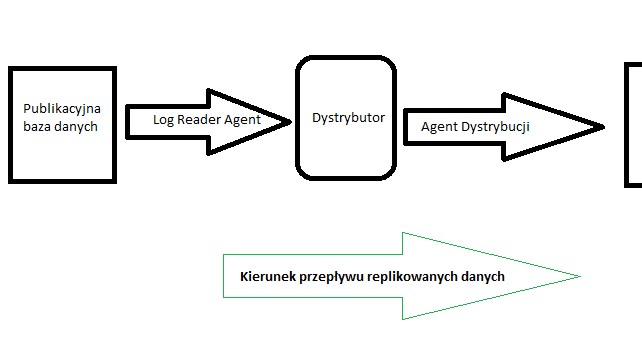
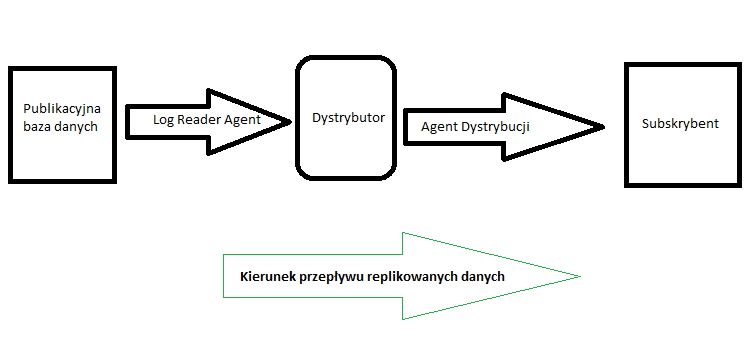
doc update

diff --git a/Dokumentation/main.tex b/Dokumentation/main.tex
@@ -18,7 +18,8 @@
 	
 	\center 
 	
-	\textsc{\LARGE POLITECHNIKA WROCŁAWSKA WYDZIAŁ ELEKTRONIKI}
+	\textsc{\LARGE POLITECHNIKA WROCŁAWSKA} \\[0.5cm]
+	\textsc{\LARGE WYDZIAŁ ELEKTRONIKI} 
 	
 	\HRule\\[3.0cm]
 	
@@ -42,8 +43,9 @@
 	\begin{minipage}{0.4\textwidth}
 		\begin{flushright}
 			\large
-			\textit{PROWADZĄCY ZAJĘCIA}\\
+			\textit{PROWADZĄCY}\\
 			Dr inż. Robert Wójcik
+			W4/K9
 			\\[2.0cm] 
 			OCENA PRACY:
 		\end{flushright}
@@ -154,11 +156,22 @@ Agent Dystrybucji (Distribution Agent) - agent (distrib.exe) odpowiedzialny za a
 	\subsection{Model konceptualny}
 
 	\subsection{Model fizyczny}
+	
+	\subsection{Model replikacji}	
+	System ma służyć klientom sieci restauracji do przeglądania menu w poszczególnych restauracjach. Jeden węzeł główny ma możliwość modyfikacji, do niego dostęp jest poprzez aplikację administratorską która umożliwia modyfikacje wartości w bazie. Na kolejnych dwóch węzłach użytkownicy mają jedynie prawo odczytu, na tych połączone są aplikacje klienckie. Na węźle nadrzędnym uruchomiony jest publisher który nadzoruje rozgłaszanie logów transakcyjnych. Również na głównej bazie znajdują się subskrybenci którzy odpowiadają za przyjmowanie danych na bazach docelowych. Zostały one umieszczone po stronie bazy głównej, MS Serwer umożliwia umieszczenie ich również po stronie subskrybentów.
+	
+	
+	
+	\begin{figure}[hbt!]
+		\includegraphics[width=8cm]{Files/Pictures/repSub}
+		\centering
+		\caption{Konfiguracji replikacji}
+	\end{figure}
+	
 
-\section{Implementacja bazy danych w środowisku ...}
+
+\section{Implementacja bazy danych w środowisku}
 	\subsection{Realizacja bazy danych}
-	\newpage
-	\subsection{Definiowanie łączników}
 	\newpage
 	\subsection{Wykorzystanie mechanizmów replikacji transakcyjnej}
 System został stworzony na jednej maszynie, na której umieszczone zostały 3 instancji Microsoft SQL Server 2017. Taka możliwość nie wymaga podziału na kontenery, jest to wspierana przez Microsoft możliwość. Konieczny jest jedynie wybór odpowiedniej ścieżki instalacji.
@@ -190,9 +203,10 @@ System został stworzony na jednej maszynie, na której umieszczone zostały 3 i
 	
 	
 	\newpage	
-	\subsection{Wykorzystanie mechanizmów replikacji master-slave}
 
 \section{Projekt i implementacja aplikacji}
+Projekt składa się z kilku segmentów, poszczególne warstwy ich opcje zostały przedstawione poniżej.
+
 			\begin{figure}[hbt!]
 				\includegraphics[width=8cm]{Files/Pictures/SystemStruct}
 				\centering
@@ -267,8 +281,48 @@ System został stworzony na jednej maszynie, na której umieszczone zostały 3 i
 			\end{figure}
 		\subsubsection{Realizacja wybranych funkcjonalności}	
 		Aplikacja kliencka została zrealizowana w technologi internetowej z wykorzystaniem framework'u Angular 8.
+		
 \section{Wdrożenie i testowanie aplikacji}
+Prezentacja działania srodowiska wymagała specjalnego przygotowania i konfiguracji sieci lokalnej.
+\subsection{Konfiguracja środowiska produkcyjnego}
+	Wszystkie komputery znalazły się w sieci lokalnej. Na PC2 zostały skonfigurowane bazy danych w podstacji trzech instancji MS serwer, wraz z replikacjią między nimi. PC1 posiadał instancję aplikacji administratorskiej wraz z odpowiadającą jej aplikacją serwerową. PC3 posiadał natomiast aplikację kliencką.
 
+
+	\begin{figure}[hbt!]
+		\includegraphics[width=8cm]{Files/Pictures/setup}
+		\centering
+		\caption{Środowisko testowe}
+	\end{figure}
+
+\subsection{Testowanie wybranych operacji}	
+Dzięki konfiguracji możliwe było pokazanie w łatwy sposób modyfikację na PC1, odczyt zmodyfikowanych danych na PC3, z możliwością podglądu na żywo na PC2 danych transakcyjnych.	
+
+\subsubsection{Test operacji dodawania i odczytu}	
+
+Pierwszym etapem testów były pojedyncze operacje zapisu. Do bazy przez aplikację administracyjną były dodawane pojedyncze wpisy do poszczególnych tabel. Na subskrybentach było weryfikowane opóźnienie. Średni czas propagacji informacji pomiędzy węzłami wyniósł 1870ms.
+Drugim etapem były testy dotyczące większej liczby wpisów, w naszym przypadku było to 10000. W tym przypadku opóźnienie wyniosło ok. 2000ms jednak widoczne były paczki transakcji które docierały na serwery slave po około 30 wpisów co 2-3ms. Jest to zjawisko związane prawdopodobnie z kwantowaniem informacji w transakcjach przez którąś ze stron.
+
+\subsubsection{Testowanie działania w warunkach awarii}
+Kolejnym etapem testów było pozbawianie systemu jednego z węzłów. Wyłączany był jeden z węzłów subskrybentów. Wykonywane były operacje dodawania na serwerze oraz obserwowane na aplikacjach klienckich. System zachował się zgodnie z założeniami, aplikacje serwerowe wykrywały uszkodzony węzeł i przekierowywały ruch do działającego. Po uruchomieniu wykluczonego serwera połączenie było wznawiane po ok. 7 sekundach od uruchomienia SQL server agenta.
+
+\subsubsection{Wnioski z testów}
+Testy potwierdziły niezawodność bazy i realizację założonych modeli zachowań. Działanie bazy jest adekwatne do architektury dla jakiej została stworzona. Potwierdzony został również niezawodność bazy w przypadku awarii jednego z węzłów. 
+
+\newpage
 \section{Podsumowanie}
+
+\section{Literatura}
+
+\begin{thebibliography}{99}
+\bibitem{pa} A. Jorgensen, B. Ball, S. Wort,:
+\emph{Microsoft SQL Server 2014. Podręcznik administratora},
+Helion
+\bibitem{pa}
+\emph{Dokumentacja MS SQL Servera}
+\bibitem{pa} R. Wójcik
+\emph{Wykłady},
+2019
+\end{thebibliography}
+
  
 \end{document}
